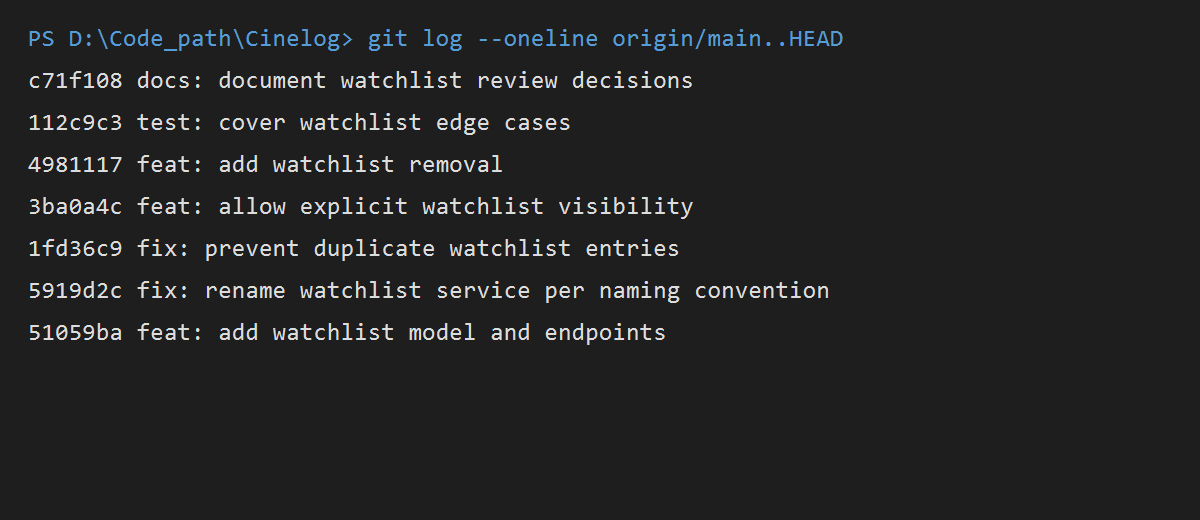
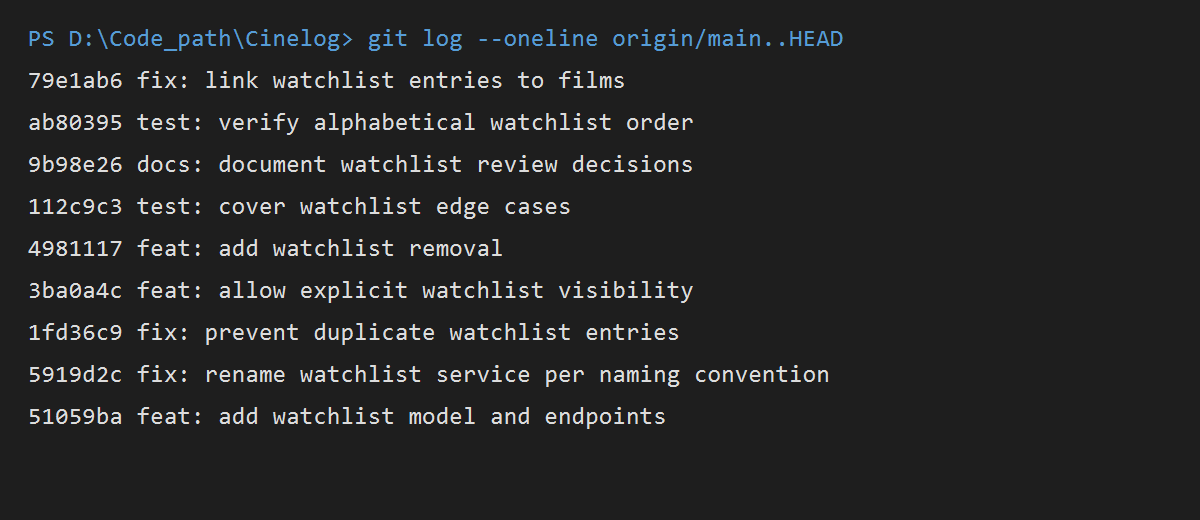
docs: update stretch feature evidence

diff --git a/pr-response.md b/pr-response.md
@@ -55,7 +55,7 @@ I split the work into separate commits for the rename, duplicate handling, stret
 ## Stretch Features
 
 - I added `remove_from_watchlist()` and a matching DELETE endpoint. The removal test confirms the entry is gone afterward.
-- I added a duplicate-entry test because repeated clicks or requests should not create extra rows.
+- I added an alphabetical-order test that inserts films in reverse title order. I chose it because sorting is part of the Comment 5 decision and was not covered by the requested nonexistent-film test. This test also caught a missing `WatchlistEntry` relationship, which I fixed so the GET endpoint can load each film.
 - I added an optional `public` value to the add endpoint and tested that `false` is stored correctly.
 
 ## PR Description
